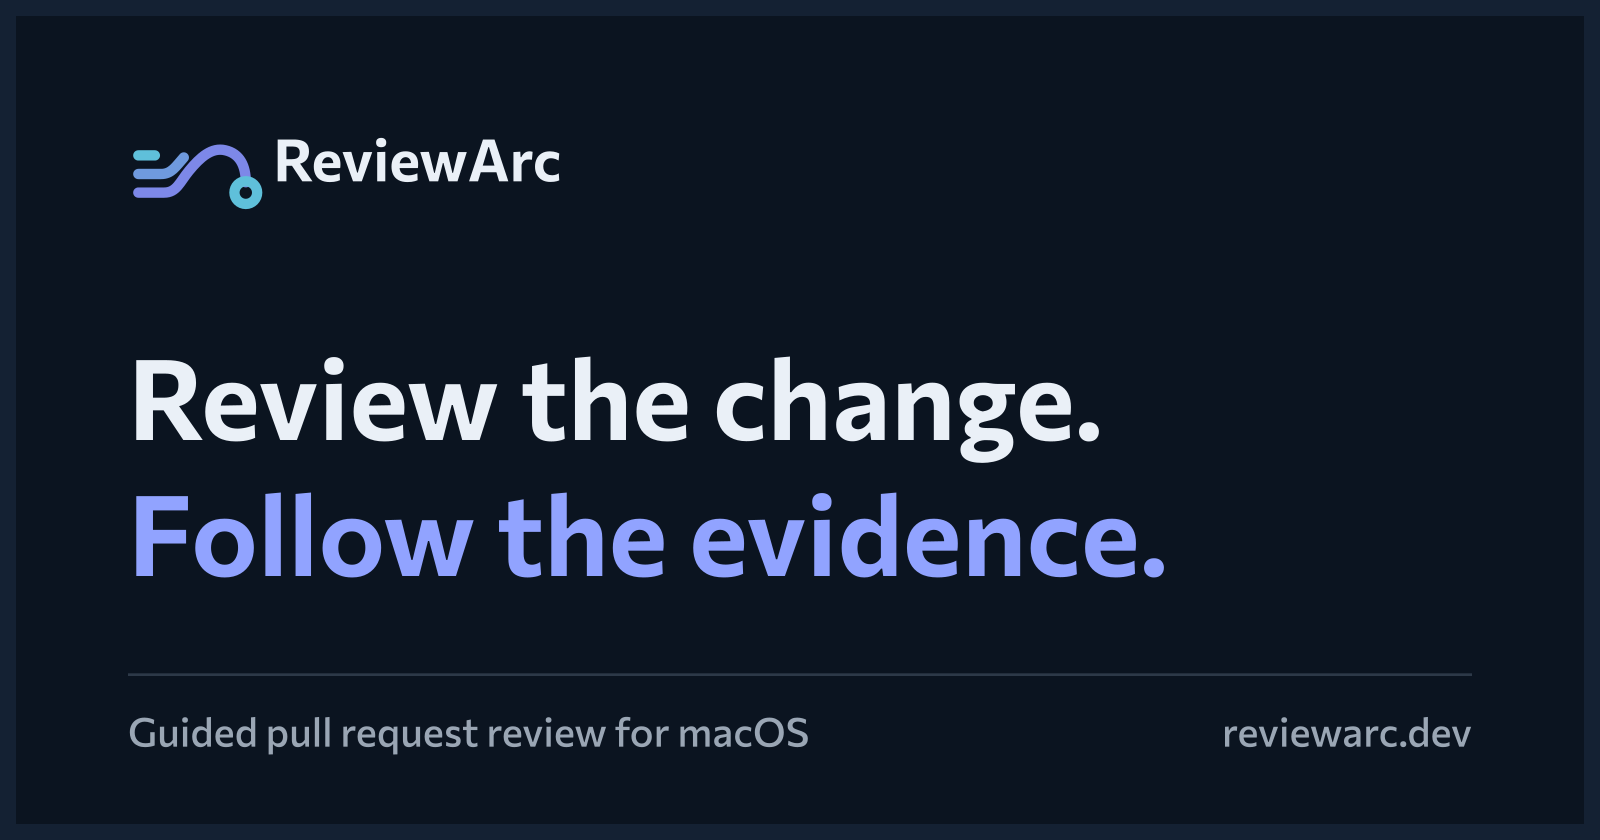
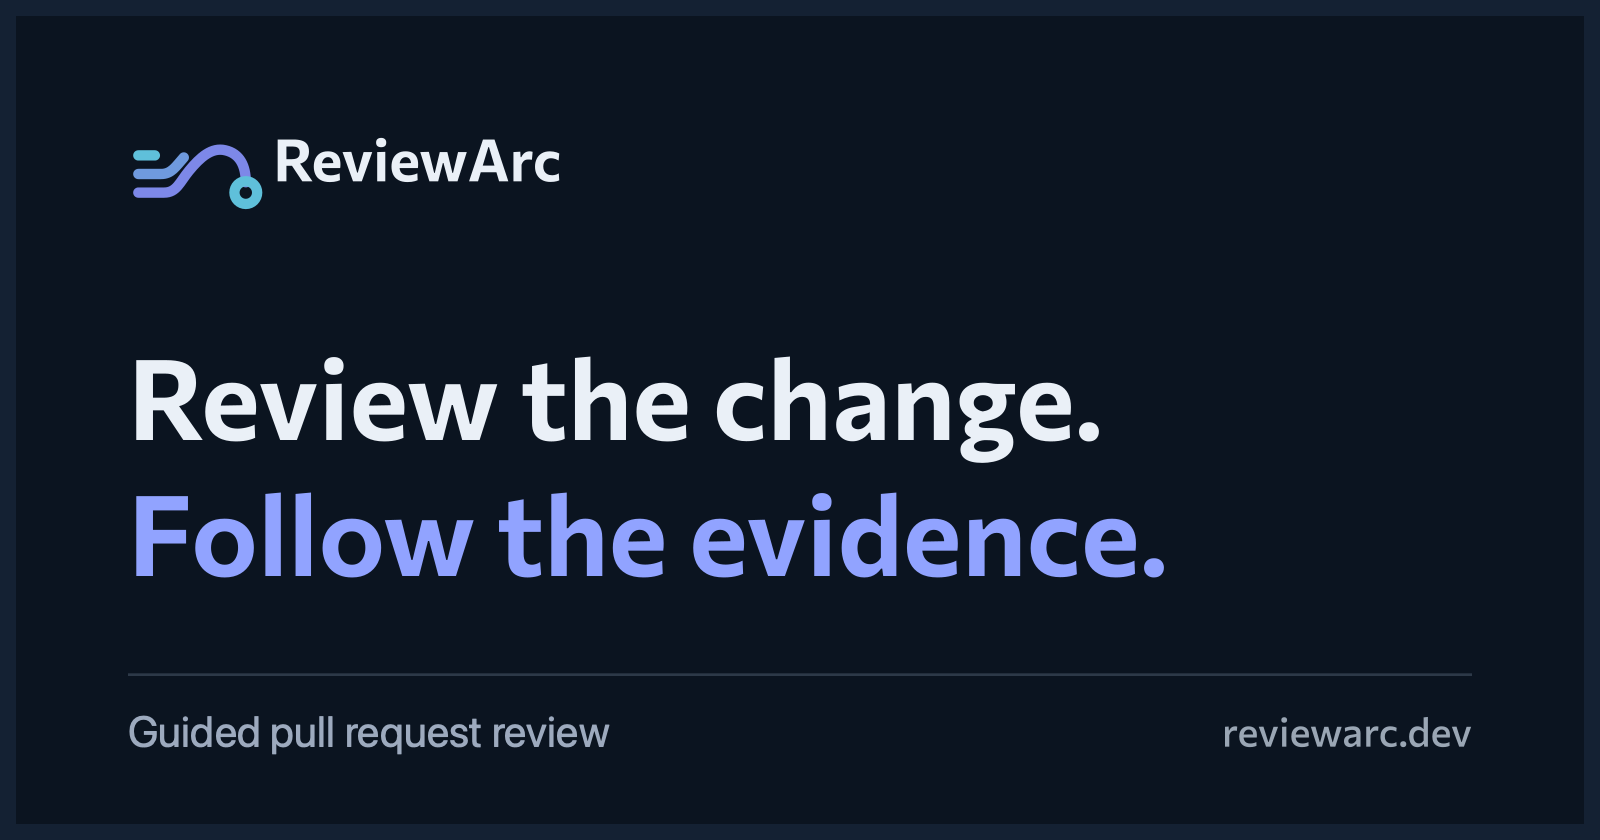
fix(site): remove macOS marketing positioning

Changed region(s): [[0.0938, 0.8357, 0.5, 0.8976]]

diff --git a/site/src/scripts/release.ts b/site/src/scripts/release.ts
@@ -74,13 +74,13 @@ const renderRelease = (release: ReleaseManifest) => {
   const artifact = release.macOS;
   updateReleaseActions({
     titleCopy: `Download ReviewArc ${release.version}`,
-    detailCopy: `Universal macOS · ${formatBytes(artifact.sizeBytes)}`,
+    detailCopy: `Signed desktop build · ${formatBytes(artifact.sizeBytes)}`,
     compactCopy: "Download",
     state: "ready",
     href: artifact.downloadUrl,
-    accessibleLabel: `Download ReviewArc ${release.version} for macOS`,
+    accessibleLabel: `Download ReviewArc ${release.version}`,
   });
-  setStatus("ready", `macOS ${artifact.minimumVersion}+ · Apple notarized · SHA-256 ${artifact.sha256.slice(0, 12)}…`);
+  setStatus("ready", `Signed and verified · SHA-256 ${artifact.sha256.slice(0, 12)}…`);
   if (releaseDetails) {
     releaseDetails.href = `/releases/v${release.version}/`;
     releaseDetails.textContent = "Release notes and checksum";
@@ -92,13 +92,13 @@ const renderRelease = (release: ReleaseManifest) => {
 const renderNoRelease = () => {
   updateReleaseActions({
     titleCopy: "View setup requirements",
-    detailCopy: "Public macOS release coming soon",
+    detailCopy: "Public release coming soon",
     compactCopy: "Setup",
     state: "recovery",
     href: "/docs/getting-started/",
     accessibleLabel: "View ReviewArc setup requirements",
   });
-  setStatus("empty", "A public macOS build isn’t available yet.");
+  setStatus("empty", "A public build isn’t available yet.");
   if (releaseDetails) releaseDetails.hidden = true;
   if (retryRelease) retryRelease.hidden = true;
 };
@@ -130,7 +130,7 @@ const loadRelease = async () => {
   activeRequest = new AbortController();
   updateReleaseActions({
     titleCopy: "Checking signed release",
-    detailCopy: "Universal macOS build",
+    detailCopy: "Latest signed desktop build",
     compactCopy: "Checking…",
     state: "loading",
     accessibleLabel: "Checking ReviewArc release availability",
